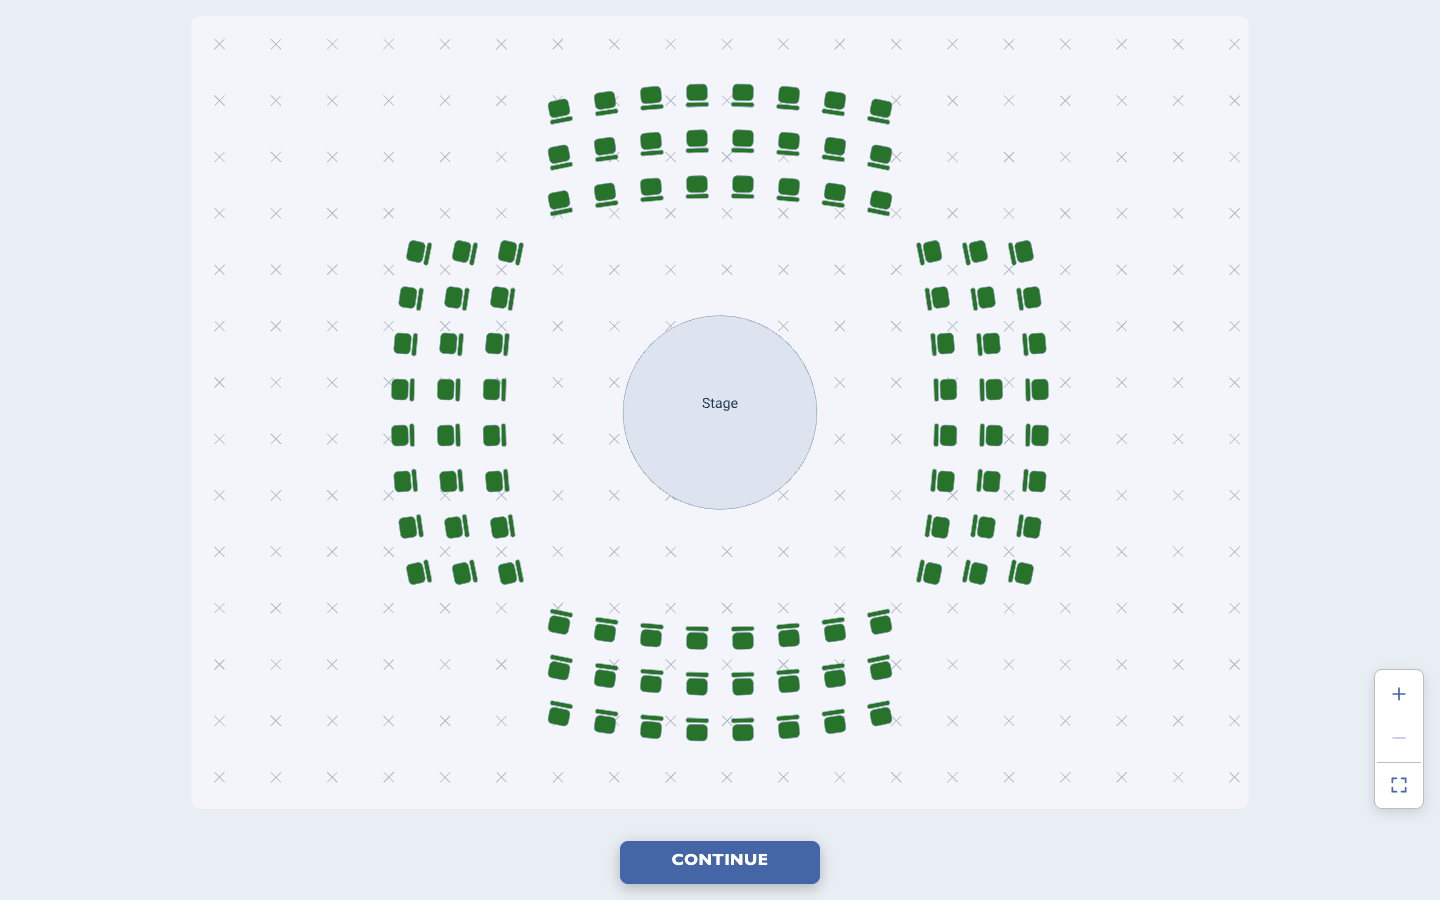
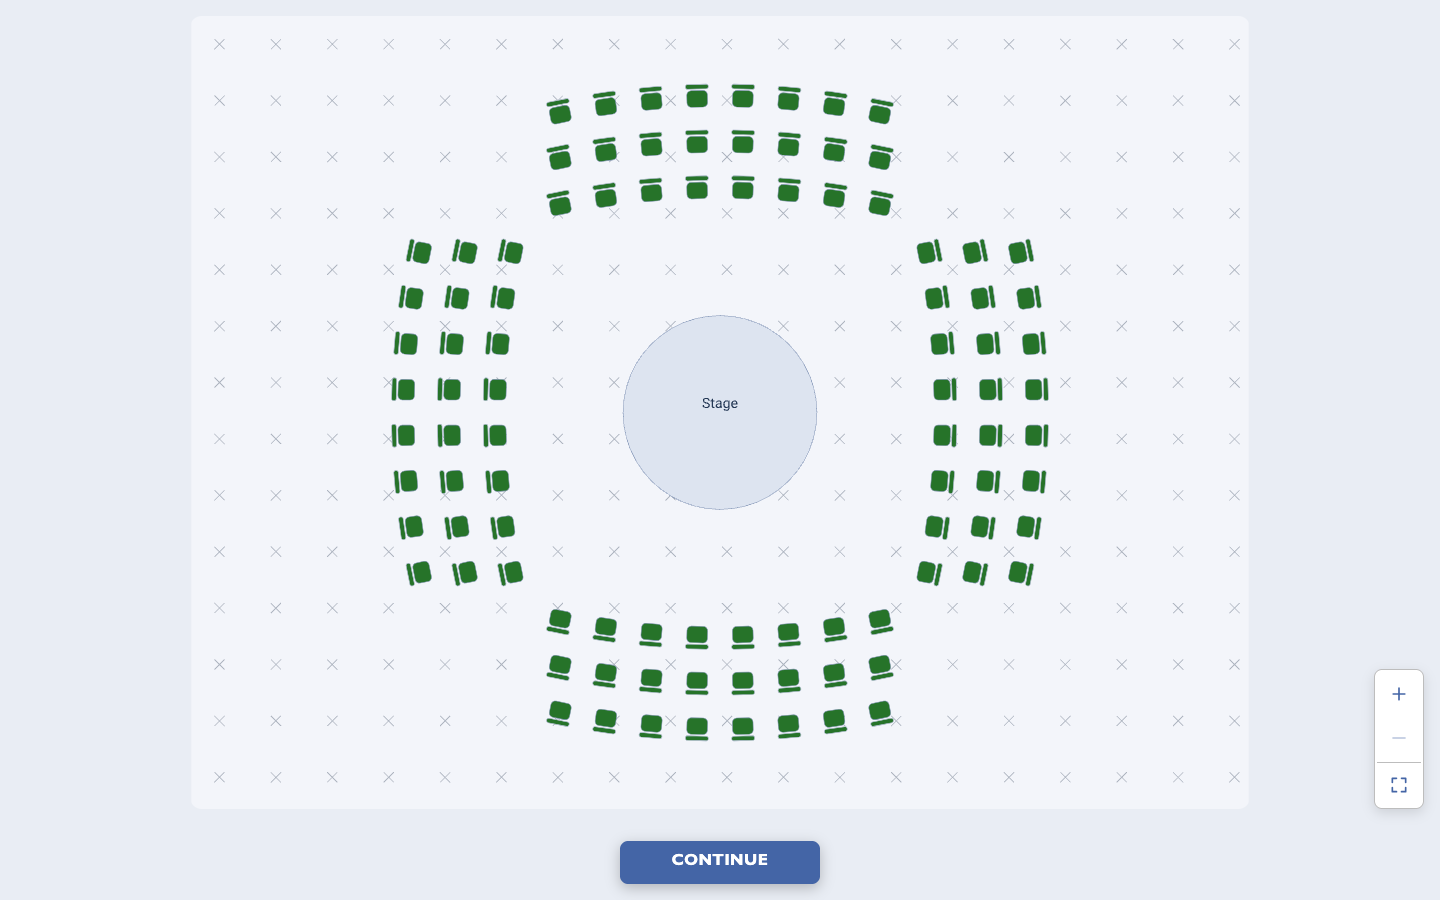
docs: show arena chairs facing the central stage

diff --git a/docs/images/readme/README.md b/docs/images/readme/README.md
@@ -90,7 +90,12 @@ or other pixels were painted over the screenshot.
 alongside the Lucerna comparison, using the same real public web-client picker,
 English locale, light theme and disposable local fixture. It shows the existing
 approved **`studio-arena`** template: 96 seats in four curved sectors around a
-central stage, with its original geometry, colors and materials preserved.
+central stage. Seat positions, colors and materials are preserved; all 96
+chair rotations were corrected by 180 degrees so their fronts face the stage.
+The replacement capture uses canonical template source `c1d4a28` from
+`festappnet/venue_seat_picker`, rendered by the same public picker. The source
+fix includes a regression test of every rendered chair backrest; it does not
+upgrade Festapp's vendored SDK or change saved production layouts.
 The complete plan is visible; no seat is selected in this view. It is a second
 ready-made venue layout, not a zoomed region of the Lucerna plan.
 

diff --git a/docs/plans/readme-festapp-tickets-2026-11-07.md b/docs/plans/readme-festapp-tickets-2026-11-07.md
@@ -83,3 +83,12 @@ The ticketing gallery shows the complete Lucerna hall and the existing approved
 stage. Both PNGs are 1440 x 900. The README describes the app's features and
 omits capture, simulator and translation commentary. Source and capture facts
 remain in the media provenance document.
+
+### Arena chair orientation correction
+
+Corrected all 96 arena chairs in canonical template source `c1d4a28` so they
+face the central stage. The rendered-backrest regression failed before the
+change and passed afterward; source analysis and the full Flutter test suite
+passed. Replaced the arena screenshot with a fresh real-picker capture.
+Seat positions and the Lucerna screenshot are unchanged. Festapp vendor
+artifacts and production layouts are outside this documentation update.
